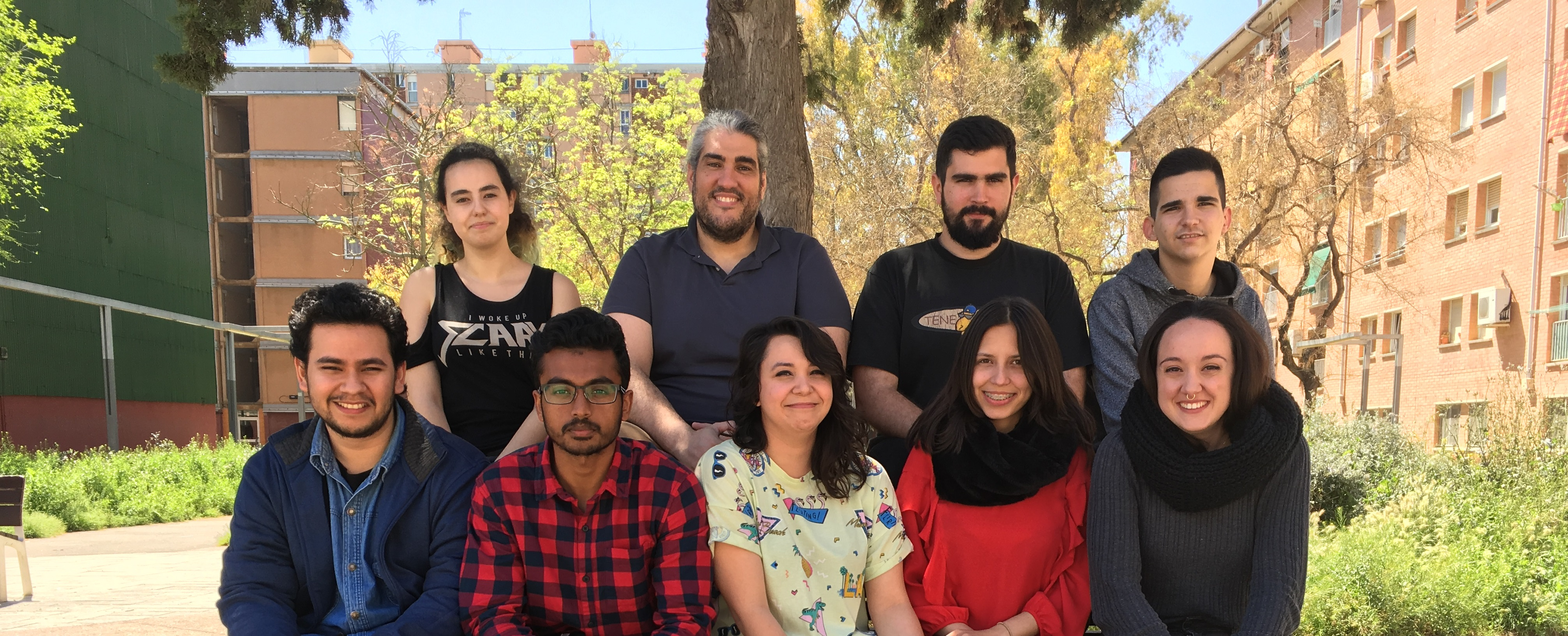
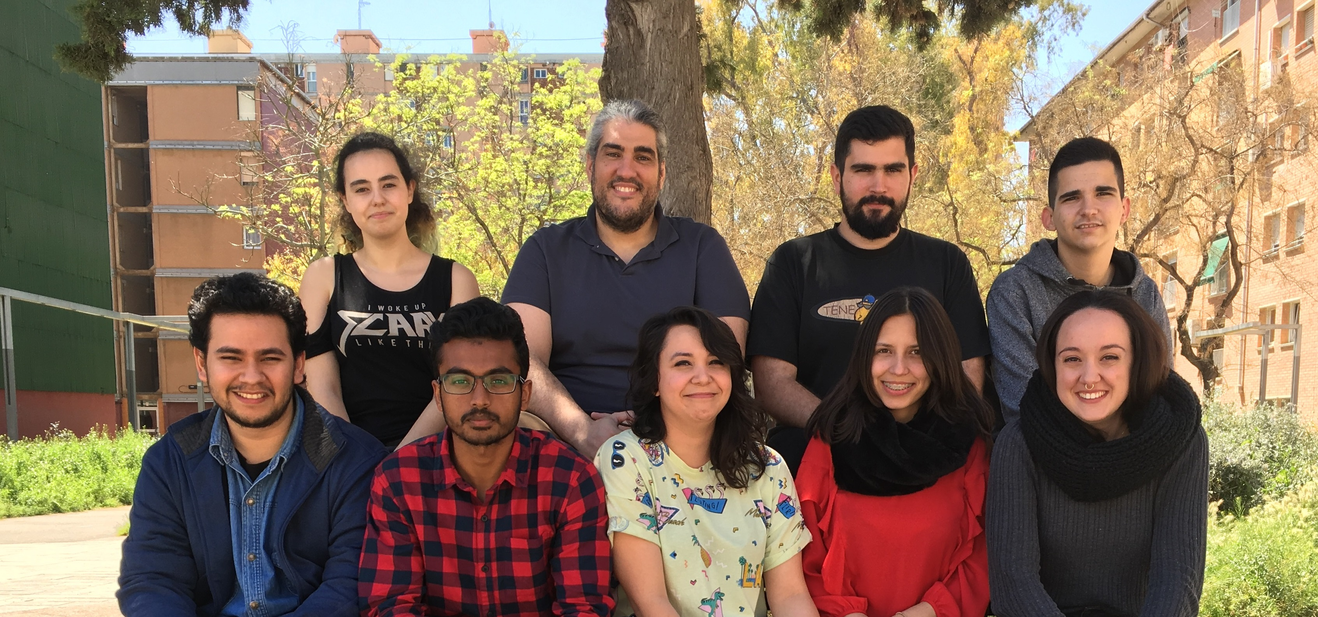
1er apartado y 2do de web acabado

diff --git a/web.php b/web.php
@@ -1,43 +1,43 @@
 <?php include ("inc/head.php");?>
 
 <div class="row">
-<<<<<<< HEAD
-	<div class="col-12 d-none d-sm-block txtTitles text-center mb-5"><h1><span class="CA">Procés de creació de la pàgina</span></h1>
-	<h1><span class="ES">Proceso de creación de la página</span></h1>
+	<div class="col-12 d-none d-sm-block txtTitles text-center mb-5">
+		<h1><span class="CA" style="display:none;">Procés de creació de la pàgina</span>
+		<span class="ES" style="display:none;">Proceso de creación de la página</span></h1>
 	</div>
 </div>
 	<div class="col-lg-8 offset-lg-2 mb-5 ">
-		<img class="img-fluid borderRound" src="img/fotoEnGrupoPaint.jpg">
-		<h5 class="text-center ml-3 mr-3"><span class="CA">Hello world! Som el Rafat, <b>l’Andrea, el Raúl, la Raquel, l’Oscar, el Santi i la Clàudia</b>, els creadors d’aquesta pàgina web. Formem part de l'especialitat de desenvolupament d'app i web apps, dins del projecte de Treballs als barris de la Casa d’Oficis de Barcelona Activa.</h5></span><h5><span class="ES">Hello world! Somos  <b>Rafat, Andrea, Raúl, Raquel, Oscar, Santi y Clàudia</b>, los creadores de esta página web. Formamos parte de la especialidad de desarrollo de app y web apps, dentro del proyecto de Treballs als barris de la Casa d’Oficis de Barcelona Activa.</span></h5>
+		<img class="img-fluid borderRound" src="img/fotogrupo2.jpg">
+		<h5 class="text-center ml-3 mr-3"><span class="CA" style="display:none;">Hello world! Som el Rafat, <b>l’Andrea, el Raúl, la Raquel, l’Oscar, el Santi i la Clàudia</b>, els creadors d’aquesta pàgina web. Formem part de l'especialitat de desenvolupament d'app i web apps, dins del projecte de Treballs als barris de la Casa d’Oficis de Barcelona Activa.</span><span class="ES" style="display:none;">Hello world! Somos  <b>Rafat, Andrea, Raúl, Raquel, Oscar, Santi y Clàudia</b>, los creadores de esta página web. Formamos parte de la especialidad de desarrollo de app y web apps, dentro del proyecto de Treballs als barris de la Casa d’Oficis de Barcelona Activa.</span></h5>
 	</div>
 	<div class="col-lg-8 offset-lg-2">  
 		<div class="row">
 			<div class="col-12 col-lg-5 mb-4 mt-2">
 				<a href="javascript:mostrarDesglossament('desgWeb1');">
-					<img src="img/definicióProjecteoriginal.jpg" class="img-fluid borderRound"></a>
-					<h5 class="text-center"><span class="CA">1-Iniciar el projecte</span></h5><h5 class="text-center"><span class="ES">1-Iniciar el proyecto</span></h5>
+					<img src="img/fotoReunion.JPG" class="img-fluid borderRound"></a>
+					<h5 class="text-center"><span class="CA" style="display:none;">1-Iniciar el projecte</span><span class="ES" style="display:none;">1-Iniciar el proyecto</span></h5>
 			</div>
 			<div class="col-lg-5 offset-lg-2 mt-2">
 
 				<a href="javascript:mostrarDesglossament('desgWeb2');">
 					<img src="img/Capturamockingboot2.JPG" class="img-fluid borderRound"></a>
-					<h5 class="text-center"><span class="CA">2-Crear una estructura</h5></span><h5 class="text-center"><span class="ES">2-Crear una estructura</h5></span>	
+					<h5 class="text-center"><span class="CA" style="display:none;">2-Crear una estructura</span><span class="ES" style="display:none;">2-Crear una estructura</h5></span>	
 			</div>
 		</div>
 		<div class="row">
 			<div class="col-12 col-lg-5 mt-3">
 			<a href="javascript:mostrarDesglossament('desgWeb3');">
-				<img src="img/Capturahangoutconferencia2.JPG" class="img-fluid borderRound"></a>
-					<h5 class="text-center"><span class="CA">3-Posar en comú</h5></span><h5 class="text-center"><span class="ES">3-Poner en común</span></h5>
+				<img src="img/CapturaHangout.JPG" class="img-fluid borderRound"></a>
+					<h5 class="text-center"><span class="CA" style="display:none;">3-Posar en comú</span><span class="ES" style="display:none;">3-Poner en común</span></h5>
 			</div>
 
 			
 
 			<div class="col-lg-5 offset-lg-2 mt-3">
 
-			<a href="javascript:mostrarDesglossament('desgWeb4');">	
-				<img src="img/Capturafilezila4.JPG" class="img-fluid borderRound"></a>
-					<h5 class="text-center"><span class="CA">4-Finalitzar el projecte</h5></span><h5 class="text-center"><span class="ES">4-Finalizar el proyecto</span></h5>
+				<a href="javascript:mostrarDesglossament('desgWeb4');">	
+					<img src="img/Capturafilezila4.JPG" class="img-fluid borderRound"></a>
+					<h5 class="text-center"><span class="CA" style="display:none;">4-Finalitzar el projecte</span><span class="ES" style="display:none;">4-Finalizar el proyecto</span></h5>
 			</div>
 		</div>
 	</div>
@@ -50,111 +50,110 @@
 
 <div class="row">
 	<div class="col-12 d-none d-sm-block txtTitles text-center ">
-			<h1>Inici del projecte</h1>
+		<h1><span class="CA" style="display:none;">Inici del projecte</span><span class="ES" style="display:none;">Inicio del proyecto</span></h1>
 	</div>
 	<div class="row">	
-		<div class="col-lg-4 offset-2 mt-5 text-center">
-		<p>
-			<span class="CA">
-				Per començar el projecte, tots els components del grup ens vam reunir per fer una pluja d'idees o brainstorming. Dins d'aquesta primera part es plantegen les característiques de la pàgina web que volem crear, des de la seva finalitat (explicar la llegenda de Sant Jordi, la festivitat, etc.) fins a la quantitat d'informació que volem afegir (imatges, textos, etc). Més tard ens repartim els apartats establerts de la pàgina.
-			</span>
-		</p>
-		<p>
-			<span class="ES">
-				Para empezar el proyecto, todos los componentes del grupo nos reunimos para hacer una lluvia de ideas o brainstorming. Dentro de esta primera parte se plantean las características de la página web que queremos crear, desde su finalidad (explicar la leyenda de Sant Jordi, la festividad, etc) hasta la cantidad de información que queremos añadir (imágenes, textos, etc). Más tarde nos repartimos los apartados establecidos de la página.
-			</span>
-		</p>
-	</div>
-	<div class=" col-lg-3 mt-5">
-		<img src="img/definicióProjecteoriginal.jpg" class="img-fluid borderRound">
-	</div>
-	</div>
-	<div class="row">
-		<div class="col-lg-4 offset-2 mt-5 text-center">
+		<div class="col-lg-6 offset-3 mt-5 text-center">
 			<p>
-				<span class="CA">
-					No obstant ens dividim cada apartat de la pàgina entre els integrants del grup amb el fi de desenvolupar individualment el lloc web. Tenint en compte les mides de cada imatge, gif, i vídeos animats implementats en aquesta pàgina que seran creats per les altres especialitats digitals. Tot això sobretot amb cohesió de grup.
+				<span class="CA" style="display:none;">
+					Per començar el projecte, tots els components del grup ens vam reunir per fer una pluja d'idees o brainstorming. Dins d'aquesta primera part es plantegen les característiques de la pàgina web que volem crear, des de la seva finalitat (explicar la llegenda de Sant Jordi, la festivitat, etc.) fins a la quantitat d'informació que volem afegir (imatges, textos, etc). Més tard ens repartim els apartats establerts de la pàgina.
+				</span>
+			
+			
+				<span class="ES" style="display:none;">
+					Para empezar el proyecto, todos los componentes del grupo nos reunimos para hacer una lluvia de ideas o brainstorming. Dentro de esta primera parte se plantean las características de la página web que queremos crear, desde su finalidad (explicar la leyenda de Sant Jordi, la festividad, etc) hasta la cantidad de información que queremos añadir (imágenes, textos, etc). Más tarde nos repartimos los apartados establecidos de la página.
 				</span>
 			</p>
 			<p>
-				<span class="ES">
+				<span class="CA" style="display:none;">
+					No obstant ens dividim cada apartat de la pàgina entre els integrants del grup amb el fi de desenvolupar individualment el lloc web. Tenint en compte les mides de cada imatge, gif, i vídeos animats implementats en aquesta pàgina que seran creats per les altres especialitats digitals. Tot això sobretot amb cohesió de grup.
+				</span>
+			
+				<span class="ES" style="display:none;">
 					No obstante nos dividimos cada apartado de la página entre los integrantes del grupo con el fin de desarrollar individualmente el sitio web. Teniendo en cuenta las medidas de cada imagen, gif, y vídeos animados implementados en esta página que serán creados por las otras especialidades digitales. Todo esto sobretodo con cohesión de grupo.
 				</span>
 			</p>
 		</div>
-		<div class="col-lg-3 mt-4">
-			<img src="img/definicióProjecteoriginal.jpg" class="img-fluid borderRound">
+	</div>
+	<div class="row">
+		<div class=" col-lg-3 offset-3 mt-5">
+			<img src="img/fotoTrabajandoSinRecortar.JPG" class="img-fluid borderRound">
+		</div>
+		<div class="col-lg-3 mt-5">
+			<img src="img/fotoTrabajando.JPG" class="img-fluid borderRound">
 		</div>
 	</div>
+	</div>
 
-</div>
 </div>	
 <div id=desgWeb2 class="row mostraDiv">
 	<div class="col-12">
 			<a href="javascript:tancarDesglossament('desgWeb2');"><img src="img/cartells/proposta2TancarReduida.png" class="img-fluid"></a>
 	</div>
 	<div class="col-12 d-none d-sm-block txtTitles text-center ">
-			<h1>Creació de la estructura</h1>
+			<h1><span class="CA" style="display:none;">Creació de la estructura</span></h1>
+			<h1><span class="ES" style="display:none;">Creación de la estructura</span></h1>
 	</div>
-<div class="row">
-	<div class="col-lg-7 offset-3 mt-5 text-center">
-		<p>
-			<span class="CA">
-			A l'hora de fer un esquema de com volem que sigui la pàgina, fem servir el programa Mockingbot un dels programes més utilitzats pels programadors i dissenyadors. Aquest programa ens dóna eines que ens faciliten crear l'estructura o wireframe, on apareixeran tots els elements visuals de la web. Els elements poden anar des d'un menú a la capçalera amb opcions de navegació, a un peu de pàgina amb els logotips corporatius, entre altres. En altres paraules l'aplicació Mockingbot ens permet visualitzar gràficament com quedaria la pàgina web (l'estructura) en aquest cas la web de Sant Jordi.
-			</span>
-		</p>
-		<p>
-			<span class="ES">
-				A la hora de hacer un esquema de cómo queremos que sea la página, usamos el programa Mockingbot uno de los programas más utilizados por los programadores y diseñadores. Este programa nos da herramientas que nos facilitan crear la estructura o wireframe, donde aparecerán todos los elementos visuales de la web. Los elementos pueden ir desde un menú a la cabecera con opciones de navegación, a un pie de página con los logotipos corporativos, entre otros. En otras palabras la aplicación Mockingbot nos permite visualizar gráficamente como quedaría la página web (la estructura) en este caso la web de Sant Jordi.
-			</span>
-		</p>
+	<div class="row">
+		<div class="col-lg-7 offset-3 mt-5 text-center">
+			<p>
+				<span class="CA" style="display:none;">
+					A l'hora de fer un esquema de com volem que sigui la pàgina, fem servir el programa Mockingbot un dels programes més utilitzats pels programadors i dissenyadors. Aquest programa ens dóna eines que ens faciliten crear l'estructura o wireframe, on apareixeran tots els elements visuals de la web. Els elements poden anar des d'un menú a la capçalera amb opcions de navegació, a un peu de pàgina amb els logotips corporatius, entre altres. En altres paraules l'aplicació Mockingbot ens permet visualitzar gràficament com quedaria la pàgina web (l'estructura) en aquest cas la web de Sant Jordi.
+				</span>
+				<span class="ES" style="display:none;">
+					A la hora de hacer un esquema de cómo queremos que sea la página, usamos el programa Mockingbot uno de los programas más utilizados por los programadores y diseñadores. Este programa nos da herramientas que nos facilitan crear la estructura o wireframe, donde aparecerán todos los elementos visuales de la web. Los elementos pueden ir desde un menú a la cabecera con opciones de navegación, a un pie de página con los logotipos corporativos, entre otros. En otras palabras la aplicación Mockingbot nos permite visualizar gráficamente como quedaría la página web (la estructura) en este caso la web de Sant Jordi.
+				</span>
+			</p>
+		</div>
+		<div class="col-lg-4 offset-3 mt-5 text-center">
+			<img src="img/Capturamockingboot2.JPG" class="img-fluid borderRound">
+		</div>	
+		<div class="col-lg-3  mt-5 text-center">
+			<img src="img/Capturamockingbot4.JPG" class="img-fluid borderRound">
+		</div>	
 	</div>
-	<div class="col-lg-4 offset-3 mt-3 text-center">
-		<img src="img/Capturamockingboot2.JPG" class="img-fluid borderRound">
-	</div>	
-	<div class="col-lg-3  mt-3 text-center">
-		<img src="img/Capturamockingbot4.JPG" class="img-fluid borderRound">
-	</div>	
-</div>
 </div>
 <div id="desgWeb3" class="row mostraDiv">
 	<div class="col-12 ">
-			<a href="javascript:tancarDesglossament('desgWeb3');"><img src="img/cartells/proposta2TancarReduida.png" class="img-fluid"></a>
+		<a href="javascript:tancarDesglossament('desgWeb3');"><img src="img/cartells/proposta2TancarReduida.png" class="img-fluid"></a>
 	</div>
 	<div class="col-12 d-none d-sm-block txtTitles text-center ">
-			<h1>Posada en comú</h1>
-		</div>
-	<p>
-		<span class="CA">
-			Per poder crear una pàgina web, és indispensable tenir un equip de disseny. En el nostre cas, dins del projecte Treballs als barris, col·laborem amb les especialitats de Disseny 2D/3D i amb Animació de productes audiovisuals 2D/3D. Ens comuniquem entre tots a través de l’aplicació de Google Hangouts, per tal d’aclarir conceptes de la web i les tasques que ha de dur a terme cada especialitat.
-		</span>	
-	</p>
-	<p>
-		<span class="ES">
-			Para poder crear una página web, es indispensable tener un equipo de diseño. En nuestro caso, dentro del proyecte Trabajos en los barrios, colaboramos con las especialidades de Diseño 2D/3D y con Animación de productos audiovisuales 2D/3D. Nos comunicamos entre todos a través de la aplicación de Google Hangouts, para aclarar conceptos de la web y las tareas que tiene que llevar a cabo cada especialidad.
-		</span>
-	</p>
+		<h1><span class="CA" style="display:none;">Posada en comú</span>
+		<span class="ES" style="display:none;">Puesta en común</span></h1>
+	</div>
+	<div class="col-lg-6 text-center offset-3">
+		<p>
+			<span class="CA" style="display:none;">
+				Per poder crear una pàgina web, és indispensable tenir un equip de disseny. En el nostre cas, dins del projecte Treballs als barris, col·laborem amb les especialitats de Disseny 2D/3D i amb Animació de productes audiovisuals 2D/3D. En conseqüència necessitem l'ajuda de tot l'equip digital i una eina idònia per comunicar-nos entre tots a través de l'aplicació gratuïta de Google hangouts(una aplicació web per fer videoconferències i xatejar), necessària per aclarir dubtes, conceptes i aspectes sobre la web i engegar les tasques que ha de dur a terme cada especialitat.
+			</span>	
+			<span class="ES" style="display:none;">
+				Para poder crear una página web, es indispensable tener un equipo de diseño. En nuestro caso, dentro del proyecte Trabajos en los barrios, colaboramos con las especialidades de Diseño 2D/3D y con Animación de productos audiovisuales 2D/3D. Nos comunicamos entre todos a través de la aplicación de Google Hangouts, para aclarar conceptos de la web y las tareas que tiene que llevar a cabo cada especialidad.
+			</span>
+		</p>
+	</div>
+	<div class="col-12 col-lg-6 offset-3">
+		<img src="img/CapturaHangout.JPG" class="img-fluid borderRound">
+	</div>
 </div>
 <div id="desgWeb4" class="row mostraDiv">
-		<div class="col-lg-12 ">
-			<a href="javascript:tancarDesglossament('desgWeb4');"><img src="img/cartells/proposta2TancarReduida.png" class="img-fluid"></a>
-		</div>
+	<div class="col-lg-12 ">
+		<a href="javascript:tancarDesglossament('desgWeb4');"><img src="img/cartells/proposta2TancarReduida.png" class="img-fluid"></a>
+	</div>
 		<div class="col-12 d-none d-sm-block txtTitles text-center ">
-			<h1>Finalització del projecte</h1>
+			<h1><span class="CA" style="display:none;">Finalització del projecte</span>
+			<span class="ES" style="display:none;">Finalización del proyecto</span></h1>
 		</div>
 	<div class="row">	
 		<div id="textoFinal" class="col-lg-4 offset-2 text-center mt-5">
 			<div class="mt-5">
-			<p>
-				<span class="CA">
-					Després de moltes setmanes de treball, arriba el moment de penjar la web a internet. Per fer-ho, fem servir el programa Filezilla, que permet que ens connectem a un servidor web. A través d’aquest programa, pengem els arxius i el codi que formen la web al hosting, és a dir, a un servei d’emmagatzematge online. Aquest pas ens permet accedir a la web en qualsevol moment a través d’internet.
-				</span>
-			</p>
-			<p>
-				<span class="ES">
-					Después de muchas semanas de trabajo, llega el momento de colgar la web a internet. Para hacerlo, usamos el programa Filezilla, que permite que nos conectamos a un servidor web. A través de este programa, colgamos los archivos y el código que forman la web al hosting, es decir, a un servicio de almacenamiento online. Este paso nos permite acceder en la web en cualquier momento a través de internet.
-				</span>
-			</p>
+				<p>
+					<span class="CA" style="display:none;">
+						Després de moltes setmanes de treball, arriba el moment de penjar la web a internet. Per fer-ho, fem servir el programa Filezilla, que permet que ens connectem a un servidor web. A través d’aquest programa, pengem els arxius i el codi que formen la web al hosting, és a dir, a un servei d’emmagatzematge online. Aquest pas ens permet accedir a la web en qualsevol moment a través d’internet.
+					</span>
+					<span class="ES" style="display:none;">
+						Después de muchas semanas de trabajo, llega el momento de colgar la web a internet. Para hacerlo, usamos el programa Filezilla, que permite que nos conectamos a un servidor web. A través de este programa, colgamos los archivos y el código que forman la web al hosting, es decir, a un servicio de almacenamiento online. Este paso nos permite acceder en la web en cualquier momento a través de internet.
+					</span>
+				</p>
 			</div>
 		</div>
 		<div class=" col-lg-4 mt-4">
